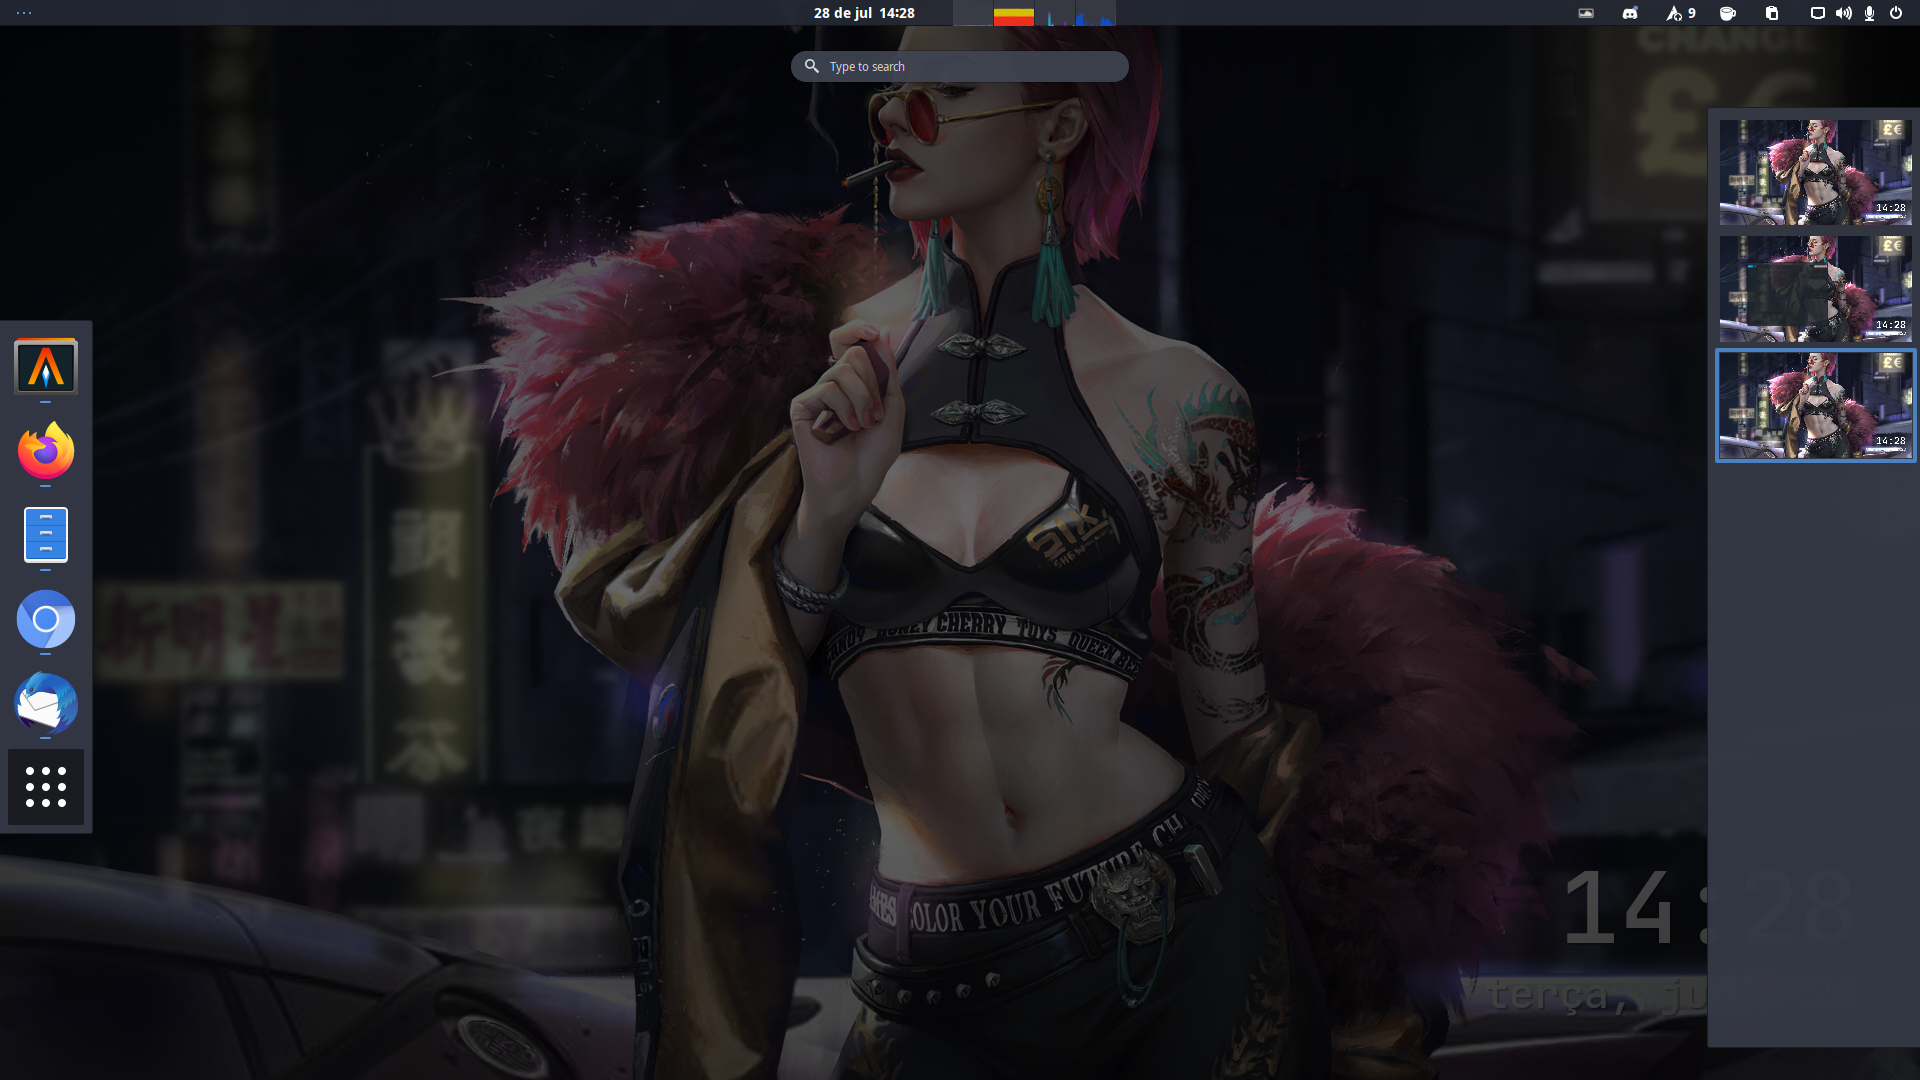
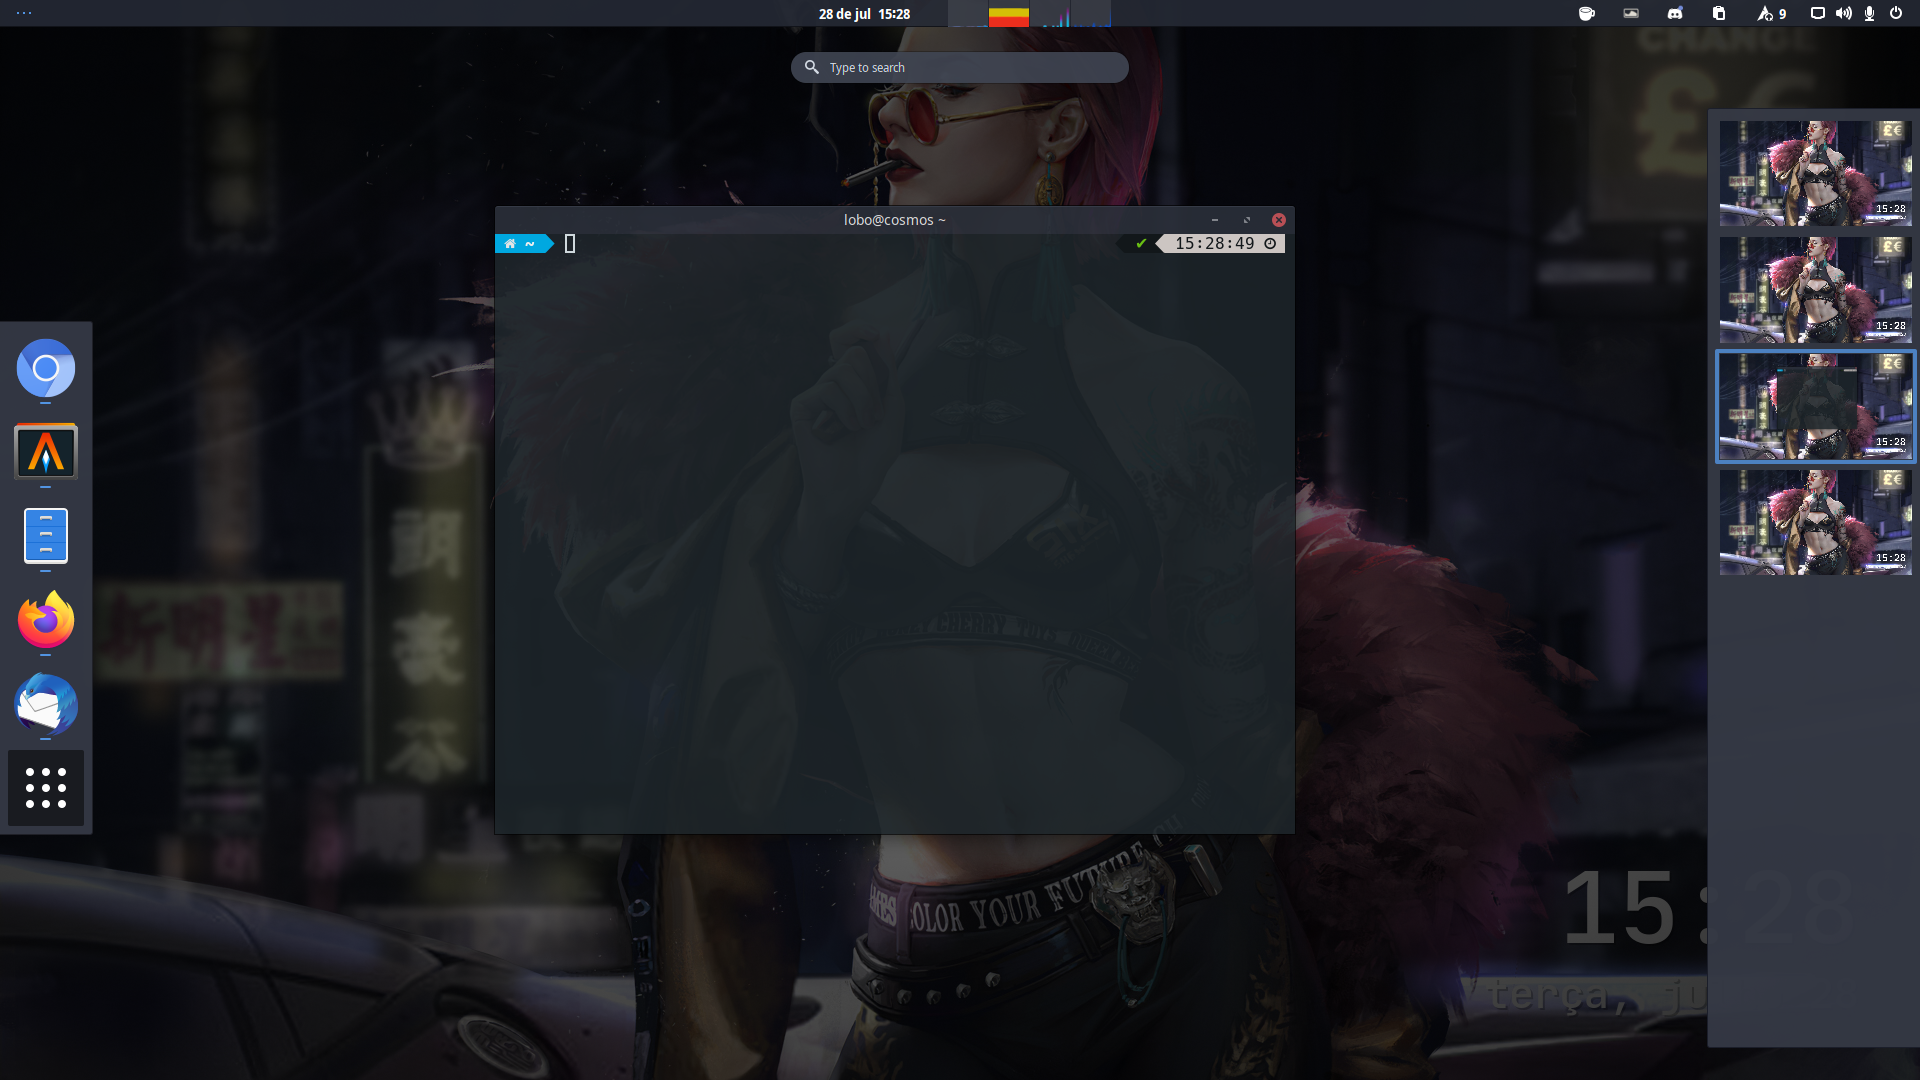
More adjustments and new screenshoots

diff --git a/common/gnome-shell/3.36/sass/_common.scss b/common/gnome-shell/3.36/sass/_common.scss
@@ -803,8 +803,8 @@ StScrollBar {
 #panel {
   font-weight: bold;
   font-feature-settings: "tnum";
-  @include fontsize($font-size * 1.2);
-  height: $font-size * 2.6px;
+  font-size: $font-size * 1.5px;
+  height: $font-size * 1.5px + 12px;
   background-gradient-direction: none;
   background-color: $shell_osd_background_color;
   //background-clip: padding-box;
